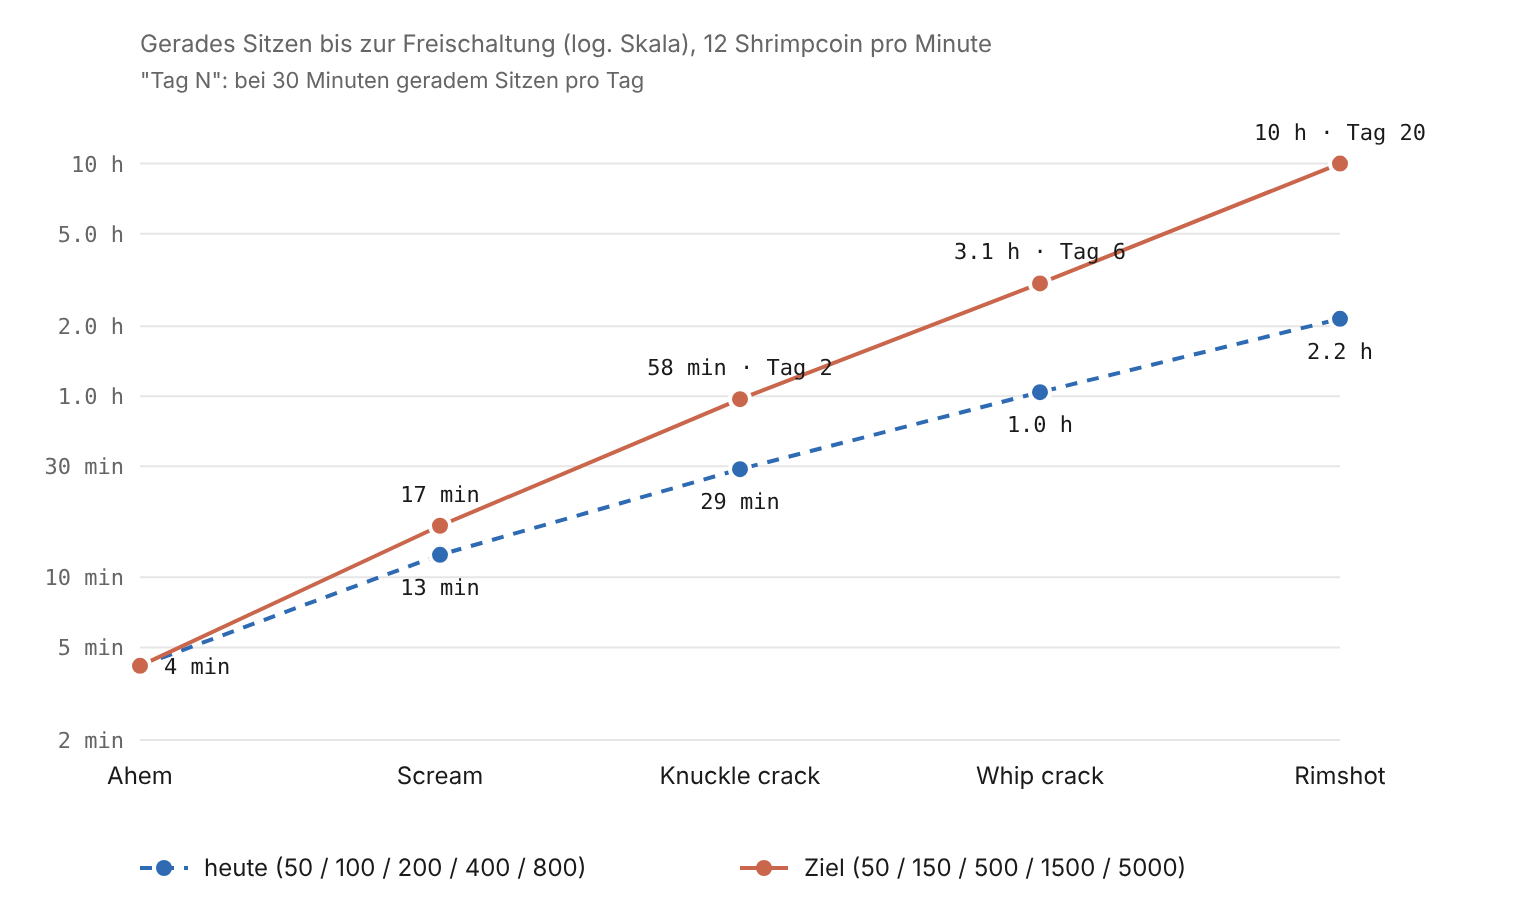
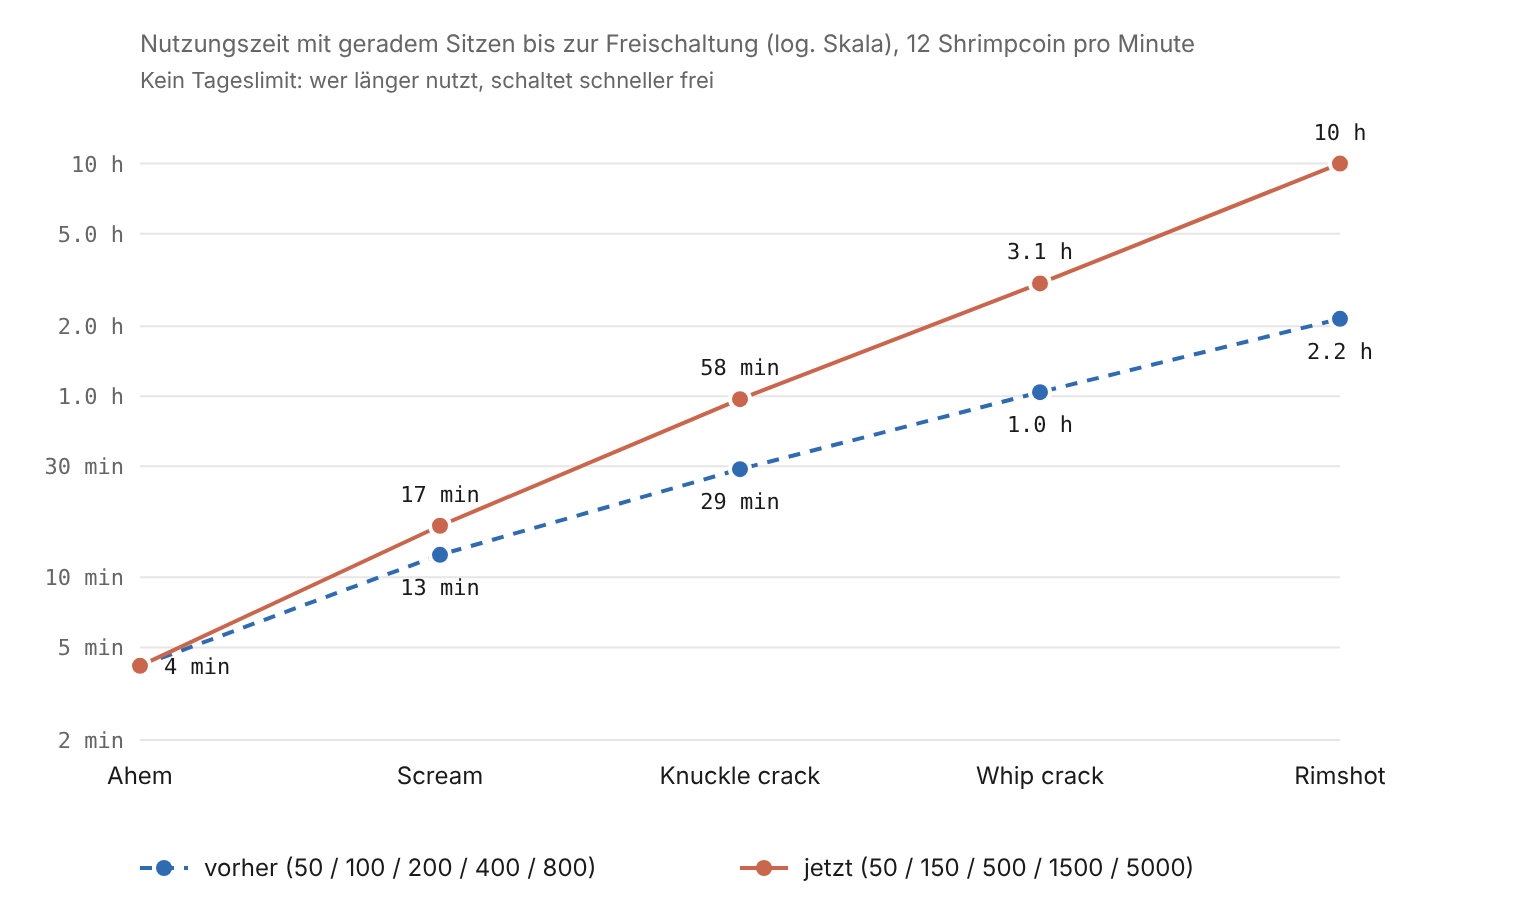
Frame unlock times as usage time, not days
There is no daily cap: coins come from straight readings alone, so more
use unlocks sooner. The chart and notes drop the "day N" figures that
read like a calendar gate.

Claude-Session: https://claude.ai/code/session_01UYdUXEh1Vui2C1WUPvRJaJ

diff --git a/src/app/db.ts b/src/app/db.ts
@@ -262,13 +262,14 @@ export const DEFAULTS: Settings = {
  * straight earns 12 a minute (6 by the second, 6 in streak bonuses).
  *
  * The ladder is steep on purpose _(2026-10-18, his call: „mach die preise
- * steiler")_: each step roughly triples, so the wait grows from minutes to
- * weeks the way an idle game's clock stretches (research/
- * idle-game-reward-curves.md). Bought in order, the sounds unlock after about
- * 4 minutes, 17 minutes, 1 hour, 3 hours and 10 hours of straight sitting;
- * at half an hour of it a day that is the first session, the first session,
- * day 2, day 6 and day 20. The first one stays at four minutes _(his call:
- * „erster sound soll nach 4 minuten ca drin sein")_.
+ * steiler")_: each step roughly triples, so the wait stretches the way an
+ * idle game's clock does (research/idle-game-reward-curves.md). Bought in
+ * order, the sounds unlock after about 4 minutes, 17 minutes, 1 hour, 3 hours
+ * and 10 hours of straight sitting. That is usage time, not calendar time:
+ * there is no daily cap, so someone who sits with it four hours a day unlocks
+ * correspondingly sooner _(his call: „das freischalten soll nicht pro tag
+ * sondern pro nutzungszeit relevant sein")_. The first one stays at four
+ * minutes _(his call: „erster sound soll nach 4 minuten ca drin sein")_.
  */
 export const SOUND_PRICE: Record<SoundName, number> = {
     fart: 0,

diff --git a/CHANGELOG.md b/CHANGELOG.md
@@ -28,10 +28,15 @@ wrote them in.
 - **The prices are steeper** _(his call, verbatim: „mach die preise
   steiler")_: ahem 50, scream 150, knuckle crack 500, whip crack 1,500,
   rimshot 5,000. Each step roughly triples, so the sounds unlock after about
-  4 minutes, 17 minutes, 1 hour, 3 hours and 10 hours of straight sitting,
-  which at half an hour of it a day is the first session, the first session,
-  day 2, day 6 and day 20. The first stays at four minutes, as he asked. The
-  target curve against the old ladder is `research/shrimpcoin-unlock-curve.png`.
+  4 minutes, 17 minutes, 1 hour, 3 hours and 10 hours of straight sitting.
+  The first stays at four minutes, as he asked. The target curve against the
+  old ladder is `research/shrimpcoin-unlock-curve.png`.
+- **Unlocking follows usage time, not days** _(his call, verbatim: „das
+  freischalten soll nicht pro tag sondern pro nutzungszeit relevant sein. dh
+  wenn jjemand 4h am tag das nurzt soll er auch mehr freischalten")_. It
+  already did: there is no daily cap, and coins come from straight readings
+  alone. What changed is the framing: the chart and the notes no longer give
+  "day N" figures, which read like a calendar gate.
 
 ### New
 - **Every payout shows in a snackbar** _(his call, verbatim: „whenver

diff --git a/research/idle-game-reward-curves.md b/research/idle-game-reward-curves.md
@@ -299,8 +299,10 @@ then get up.
 preise steiler". The prices are now 50, 150, 500, 1500 and 5000, each step
 roughly tripling, which goes against the "nearly flat prices" row above in
 favour of the genre's stretching clock: unlocks at about 4 minutes, 17
-minutes, 1 hour, 3 hours and 10 hours of straight sitting, or the first
-session, day 2, day 6 and day 20 at half an hour a day. The same day the coin
+minutes, 1 hour, 3 hours and 10 hours of straight sitting. Those are hours of
+use, not days: there is no daily cap, so heavier use unlocks sooner (his call:
+„das freischalten soll nicht pro tag sondern pro nutzungszeit relevant
+sein"). The same day the coin
 became whole: one per ten straight readings plus the streak bonus, still 12 a
 minute at one reading a second.
 
